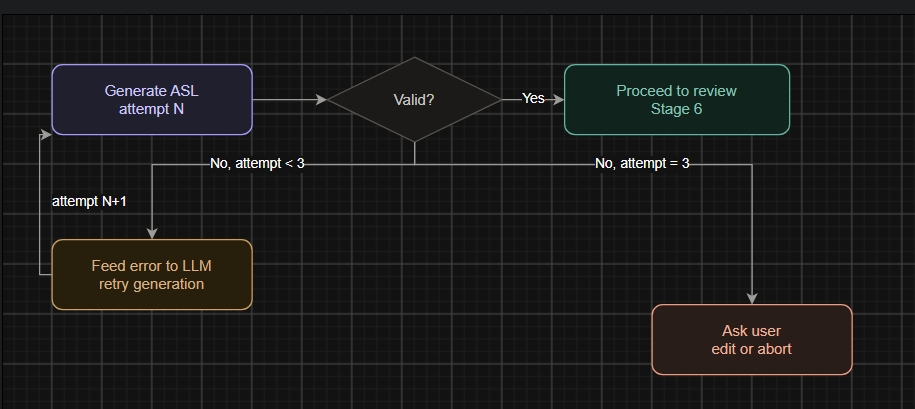
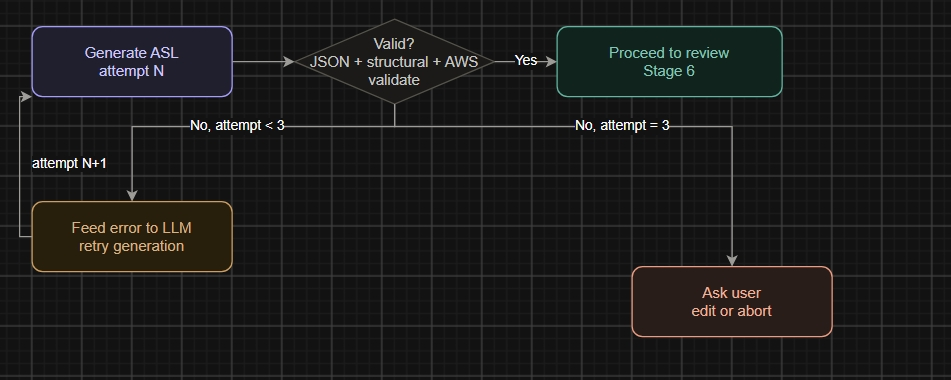
update diagrams and enhance phase 1 architecture documentation

diff --git a/docs/phase1_architecture.md b/docs/phase1_architecture.md
@@ -29,7 +29,7 @@ only after the human checkpoint in Diagram 3 (final review).
 
 ## Diagram 1 — Main flow (prompt → validated ASL)
 
-![Main flow](diagrams/main-flow.jpeg)
+![Main flow](diagrams/main_flow.jpeg)
 
 
 ### Stage 1 — Prompt intake
@@ -129,26 +129,83 @@ CLI displays the structured plan. User: **approve** / **request
 changes** / **cancel**. Changes or cancel loop back into Stage 2 with
 feedback appended to the conversation.
 
+### Stage 3.5 — Workflow specification file
+Approval doesn't just move the plan into memory — it's written to disk
+as `workflow_spec.json`, a schema-validated, versioned document. This
+becomes the single source of truth for every stage downstream, and is
+the main lever against hallucination in ASL generation:
+
+- **Why a file, not just the in-memory plan.** The plan object from
+  Stage 2 is intentionally light — name, steps, per-step service +
+  description. The specification is the same shape plus everything
+  Stage 4 needs to stop guessing: per-step `Parameters`, retry/catch
+  policies, `Choice` conditions and branch targets, timeout values
+  (explicit, or the extractor's stated default carried over verbatim).
+  One unambiguous document to translate, instead of a conversation to
+  reinterpret.
+- **Schema-validated on write.** Same category of check Stage 5 runs on
+  ASL — required fields present, step names unique, every referenced
+  next-step resolves to a real step — run *before* the spec is
+  considered locked. Catching a broken spec here is cheaper than
+  catching the same problem after ASL generation.
+- **Why this cuts hallucination.** Stage 4 stops being "regenerate the
+  workflow from scratch" and becomes "translate this fixed document
+  into ASL syntax." The Stage 4 system prompt should explicitly forbid
+  inventing steps, services, or branching logic not present in the
+  spec — anything missing belongs back in Stage 2's clarification loop,
+  not filled in silently at generation time.
+- **Reused at Stage 6.** The "save only" bundle already wants to
+  persist exactly this document — see below, the bundle stores `spec`,
+  not `plan`.
+
 ### Stage 4 — ASL generation (LLM call)
-Approved plan + repo context → LLM generates raw ASL JSON. Instruct it
-explicitly: *"Output ONLY a JSON object, no prose, no markdown fences."*
+Approved workflow specification (Stage 3.5) → LLM generates raw ASL
+JSON. No repo context here — Phase 1 has no vector store or embeddings
+dependency (see System architecture above); the specification is what
+the model is grounded on, not the repo. Instruct it explicitly:
+*"Output ONLY a JSON object, no prose, no markdown fences. Implement
+the specification exactly — do not add, remove, or reinterpret steps."*
 Strip fences in code as a safety net regardless — models add them by
 default surprisingly often.
 
-### Stage 5 — Structural validation
-Pure Python, no AI. Recurses rather than only checking the top level,
-since a `Parallel` branch or `Map`'s `ItemProcessor` is its own nested
-`StartAt`/`States` state machine:
-1. `StartAt` exists and names a real state.
-2. Every state has an allowed `Type` (Task/Choice/Wait/Parallel/**Map**/Succeed/Fail).
-3. Every non-terminal state has `Next` (pointing to a real state) or
-   `End: true`.
-4. Checks 1–3 apply again inside every `Parallel` branch and every
-   `Map`'s `ItemProcessor`. `Choice` states don't nest a full state
-   machine, but each `Choices` entry's own `Next` is validated the
-   same way a plain `Next` is.
+### Stage 5 — ASL validation (three layers)
+Three checks, cheapest first, each feeding the same repair loop on
+failure (Diagram 2):
 
-If it fails, this feeds into the repair loop — see Diagram 2.
+1. **JSON parse validation.** The LLM's response has to be valid JSON
+   before anything else can run. This is the "malformed-JSON case"
+   already noted under Diagram 2 — treated as a validation failure,
+   same repair loop, same cap.
+2. **Structural validation.** Pure Python, no AI. Recurses rather than
+   only checking the top level, since a `Parallel` branch or `Map`'s
+   `ItemProcessor` is its own nested `StartAt`/`States` state machine:
+   1. `StartAt` exists and names a real state.
+   2. Every state has an allowed `Type`
+      (Task/Choice/Wait/Parallel/**Map**/Succeed/Fail).
+   3. Every non-terminal state has `Next` (pointing to a real state) or
+      `End: true`.
+   4. Checks 1–3 apply again inside every `Parallel` branch and every
+      `Map`'s `ItemProcessor`. `Choice` states don't nest a full state
+      machine, but each `Choices` entry's own `Next` is validated the
+      same way a plain `Next` is.
+3. **AWS `ValidateStateMachineDefinition`.** A dry-run call to AWS's
+   own validator — catches what the local structural check doesn't
+   attempt (state-specific field requirements, per-service `Parameters`
+   shape, ARN format issues) without creating anything. This costs a
+   network round-trip, which is why it runs last, after the free local
+   checks have already caught the cheap failures.
+
+**This full three-layer pass runs twice, not once:**
+- **Before Stage 6** — the user reviews a definition that's already
+  known-valid, not something that might still fail at deploy time.
+- **Again immediately before Stage 8's `create_state_machine` call** —
+  covers drift introduced by a "request changes" loop back through
+  Stage 4, or a user hand-edit during Stage 6 review. Re-validating
+  right before the irreversible call is cheap insurance against
+  deploying something that changed since it was last checked.
+
+Any failure at any layer, on either pass, feeds into the repair loop —
+see Diagram 2.
 
 ---
 
@@ -198,14 +255,16 @@ nothing about whether it's the *right* workflow. A human has to look at
 it. Options: **approve & deploy** / **save only** / **request changes**
 (loop back to Stage 3 or 4) / **cancel**.
 
-**Save only** writes a workflow bundle, not bare ASL — `{"plan": ...,
+**Save only** writes a workflow bundle, not bare ASL — `{"spec": ...,
 "asl": ..., "conversation": ..., "created_at": ...}`. `deploy` reads
-`asl` from it; keeping the plan and conversation alongside it means a
-saved bundle can be reopened and fed back into the extractor/generator
-for edits later, instead of starting over from a context-less ASL file.
+`asl` from it; keeping the specification and conversation alongside it
+means a saved bundle can be reopened and fed back into the
+extractor/generator for edits later, instead of starting over from a
+context-less ASL file.
 
 ### Stage 7 — Pre-flight checks
-Four checks before any deployment call is made:
+Stage 5's three validation layers re-run first (see above), then four
+further checks before any deployment call is made:
 1. **Credentials resolvable** — can `boto3.Session()` find credentials
    at all (env vars, `~/.aws/credentials`, named profile)? Catching
    this here avoids a cryptic auth exception mid-deploy.
@@ -234,11 +293,13 @@ isn't the right answer for everything:
 - **Throttling** (`TooManyRequestsException`) — transient, safe to
   retry with backoff (the same `tenacity` pattern already used in
   `gateway_client.py`).
-- **AWS's own ASL validation rejects it** (`InvalidDefinition`) — this
-  means AWS caught something the local `validator.py` missed (it's a
-  simpler structural check, not a full ASL schema validator). Route
-  this back into **Diagram 2's repair loop** with AWS's specific error
-  message — don't just dump it on the user as a dead end.
+- **AWS's own ASL validation rejects it** (`InvalidDefinition`) — should
+  be rare now that Stage 7 re-runs `ValidateStateMachineDefinition`
+  immediately before this call, but `create_state_machine` isn't
+  guaranteed to agree with the dry-run validator in every edge case, so
+  handle it as a belt-and-suspenders case: route back into **Diagram
+  2's repair loop** with AWS's specific error message — don't just dump
+  it on the user as a dead end.
 
 ---
 
